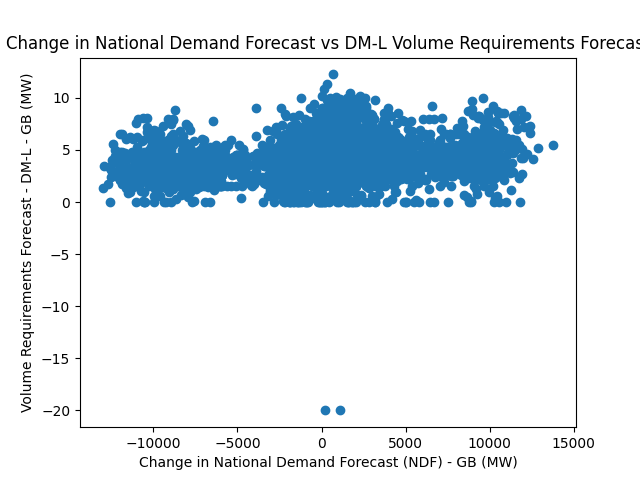
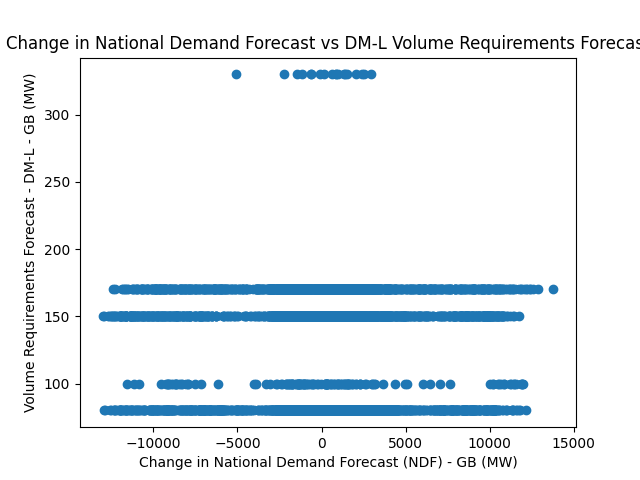
all possible inputs for price excluding lag

diff --git a/kent_data.py b/kent_data.py
@@ -45,60 +45,89 @@ def aggregate(df, value_col, agg_type=0):
 
 #print(aggregate(tdap, 'Day Ahead Price (EPEX, local) - GB (£/MWh)', 'mean'))
 
+print(tavp.head())
+
 paf_min_len = min(len(paf), len(tavp))
-for j in range(1, tavp.shape[1]):
+tdap_min_len = min(len(tdap), len(tavp))
+for j in range(1, 7):
+    if j == 1:
+        dfrtype = 'DC-H'
+    elif j == 2:
+        dfrtype = 'DC-L'
+    elif j == 3:
+        dfrtype = 'DR-H'
+    elif j == 4:
+        dfrtype = 'DR-L'
+    elif j == 5:
+        dfrtype = 'DM-H'
+    elif j == 6:
+        dfrtype = 'DM-L'
     for i in range(6):
-        plt.figure()
-        plt.scatter(aggregate(paf, 'National Demand Forecast (NDF) - GB (MW)', i)['National Demand Forecast (NDF) - GB (MW)'][:paf_min_len], tavp.iloc[:paf_min_len, j])
-        if j == 1:
-            dfrtype = 'DC-H'
-        elif j == 2:
-            dfrtype = 'DC-L'
-        elif j == 3:
-            dfrtype = 'DR-H'
-        elif j == 4:
-            dfrtype = 'DR-L'
-        elif j == 5:
-            dfrtype = 'DM-H'
-        elif j == 6:
-            dfrtype = 'DM-L'
         if i == 0:
             aggtype = 'Mean'
+            dfrtype2 = 'DC-H'
         elif i == 1:
             aggtype = 'Max'
+            dfrtype2 = 'DC-L'
         elif i == 2:
             aggtype = 'Change in'
+            dfrtype2 = 'DR-H'
         elif i == 3:
             aggtype = 'Std Dev of'
+            dfrtype2 = 'DR-L'
         elif i == 4:
             aggtype = 'Range of'
+            dfrtype2 = 'DM-H'
         elif i == 5:
             aggtype = 'Max Change in'
+            dfrtype2 = 'DM-L'
+        
+        plt.figure()
+        plt.scatter(aggregate(paf, 'National Demand Forecast (NDF) - GB (MW)', i)['National Demand Forecast (NDF) - GB (MW)'][:paf_min_len], tavp.iloc[:paf_min_len, j])
         plt.xlabel(f'{aggtype} National Demand Forecast (NDF) - GB (MW)')
         plt.ylabel(f'Volume Requirements Forecast - {dfrtype} - GB (MW)')
         plt.title(f'{aggtype} National Demand Forecast vs {dfrtype} Volume Requirements Forecast')
         plt.savefig(f'plots_kent/{aggtype} National Demand Forecast vs {dfrtype} Volume Requirements Forecast.png')
 
-plt.figure()
-plt.scatter(tavp['Volume Requirements Forecast - DC-H - GB (MW)'], tavp['Ancillary Price - DC-H - GB (£/MW/h)'])
-plt.xlabel('Volume Requirements Forecast - DC-H - GB (MW)')
-plt.ylabel('Ancillary Price - DC-H - GB (£/MW/h)')
-plt.title('Volume Requirements Forecast DC-H vs Ancillary Price')
-plt.savefig('plots_kent/Volume Requirements Forecast DC-H vs Ancillary Price.png')
+        plt.figure()
+        plt.scatter(aggregate(paf, 'National Demand Forecast (NDF) - GB (MW)', i)['National Demand Forecast (NDF) - GB (MW)'][:paf_min_len], tavp.iloc[:paf_min_len, j + 13])
+        plt.xlabel(f'{aggtype} National Demand Forecast (NDF) - GB (MW)')
+        plt.ylabel(f'Ancillary Price - {dfrtype} - GB (£/MW/h)')
+        plt.title(f'{aggtype} National Demand Forecast vs {dfrtype} Ancillary Price')
+        plt.savefig(f'plots_kent/{aggtype} National Demand Forecast vs {dfrtype} Ancillary Price.png')
 
-tdap_min_len = min(len(tdap), len(tavp))
-plt.figure()
-plt.scatter(aggregate(tdap, 'Day Ahead Price (EPEX, local) - GB (£/MWh)', 'mean')['Day Ahead Price (EPEX, local) - GB (£/MWh)'][:tdap_min_len], tavp['Ancillary Price - DC-H - GB (£/MW/h)'][:tdap_min_len])
-plt.xlabel('Day Ahead Price (EPEX, local) - GB (£/MWh)')
-plt.ylabel('Ancillary Price - DC-H - GB (£/MW/h)')
-plt.title('Day Ahead Price vs Ancillary Price')
-plt.savefig('plots_kent/Day Ahead Price vs Ancillary Price.png')
+        plt.figure()
+        plt.scatter(tavp.iloc[:, j], tavp.iloc[:, i + 13])
+        plt.xlabel(f'Volume Requirements Forecast - {dfrtype} - GB (MW)')
+        plt.ylabel(f'Ancillary Price - {dfrtype2} - GB (£/MW/h)')
+        plt.title(f'{dfrtype} Volume Requirements Forecast vs {dfrtype2} Ancillary Price')
+        plt.savefig(f'plots_kent/{dfrtype} Volume Requirements Forecast vs {dfrtype2} Ancillary Price.png')
 
-plt.figure()
-plt.scatter(aggregate(tdap, 'Day Ahead Price (EPEX, local) - GB (£/MWh)', 'mean')['Day Ahead Price (EPEX, local) - GB (£/MWh)'][:tdap_min_len], tavp['Volume Requirements Forecast - DC-H - GB (MW)'][:tdap_min_len])
-plt.xlabel('Day Ahead Price (EPEX, local) - GB (£/MWh)')
-plt.ylabel('Volume Requirements Forecast - DC-H - GB (MW)')
-plt.title('Day Ahead Price vs Volume Requirements Forecast DC-H')
-plt.savefig('plots_kent/Day Ahead Price vs Volume Requirements Forecast DC-H.png')
+        plt.figure()
+        plt.scatter(aggregate(tdap, 'Day Ahead Price (EPEX, local) - GB (£/MWh)', i)['Day Ahead Price (EPEX, local) - GB (£/MWh)'][:tdap_min_len], tavp.iloc[:tdap_min_len, j + 12])
+        plt.xlabel(f'{aggtype} Day Ahead Price (EPEX, local) - GB (£/MWh)')
+        plt.ylabel(f'Ancillary Price - {dfrtype} - GB (£/MW/h)')
+        plt.title(f'EPEX {aggtype} Day Ahead Price vs {dfrtype} Ancillary Price')
+        plt.savefig(f'plots_kent/EPEX {aggtype} Day Ahead Price vs {dfrtype} Ancillary Price.png')
 
-plt.show()
+        plt.figure()
+        plt.scatter(aggregate(tdap, 'Day Ahead Price (N2EX, local) - GB (£/MWh)', i)['Day Ahead Price (N2EX, local) - GB (£/MWh)'][:tdap_min_len], tavp.iloc[:tdap_min_len, j + 12])
+        plt.xlabel(f'{aggtype} Day Ahead Price (N2EX, local) - GB (£/MWh)')
+        plt.ylabel(f'Ancillary Price - {dfrtype} - GB (£/MW/h)')
+        plt.title(f'N2EX {aggtype} Day Ahead Price vs {dfrtype} Ancillary Price')
+        plt.savefig(f'plots_kent/N2EX {aggtype} Day Ahead Price vs {dfrtype} Ancillary Price.png')
+
+        plt.figure()
+        plt.scatter(aggregate(tdap, 'Day Ahead Price (EPEX, local) - GB (£/MWh)', i)['Day Ahead Price (EPEX, local) - GB (£/MWh)'][:tdap_min_len], tavp.iloc[:tdap_min_len, j + 12])
+        plt.xlabel(f'{aggtype} Day Ahead Price (EPEX, local) - GB (£/MWh)')
+        plt.ylabel(f'Volume Requirements Forecast - {dfrtype} - GB (MW)')
+        plt.title(f'EPEX {aggtype} Day Ahead Price vs {dfrtype} Volume Requirements Forecast')
+        plt.savefig(f'plots_kent/EPEX {aggtype} Day Ahead Price vs {dfrtype} Volume Requirements Forecast.png')
+
+        plt.figure()
+        plt.scatter(aggregate(tdap, 'Day Ahead Price (N2EX, local) - GB (£/MWh)', i)['Day Ahead Price (N2EX, local) - GB (£/MWh)'][:tdap_min_len], tavp.iloc[:tdap_min_len, j + 12])
+        plt.xlabel(f'{aggtype} Day Ahead Price (N2EX, local) - GB (£/MWh)')
+        plt.ylabel(f'Volume Requirements Forecast - {dfrtype} - GB (MW)')
+        plt.title(f'N2EX {aggtype} Day Ahead Price vs {dfrtype} Volume Requirements Forecast')
+        plt.savefig(f'plots_kent/N2EX {aggtype} Day Ahead Price vs {dfrtype} Volume Requirements Forecast.png')
+
